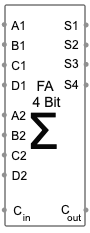
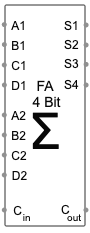
-empty-

Changed region(s): [[0.3333, 0.4807, 0.5778, 0.6609], [0.6222, 0.6009, 0.6667, 0.6609], [0.6, 0.4807, 0.6444, 0.5107]]

diff --git a/shapes/data/global/digital/alu/FullAdder4Bit.js b/shapes/data/global/digital/alu/FullAdder4Bit.js
@@ -215,7 +215,7 @@ var digital_alu_FullAdder4Bit = CircuitFigure.extend({
        
        // Label
        shape = this.canvas.paper.text(0,0,'Σ');
-       shape.attr({"x":22.60811424255371,"y":126.22956250000061,"text-anchor":"start","text":"Σ","font-family":"\"Arial\"","font-size":50,"stroke":"#000000","fill":"#080808","stroke-scale":true,"font-weight":"normal","stroke-width":0,"opacity":1});
+       shape.attr({"x":24.60811424255371,"y":126.22956250000061,"text-anchor":"start","text":"Σ","font-family":"\"Arial\"","font-size":50,"stroke":"#000000","fill":"#080808","stroke-scale":true,"font-weight":"normal","stroke-width":0,"opacity":1});
        shape.data("name","Label");
        
 
